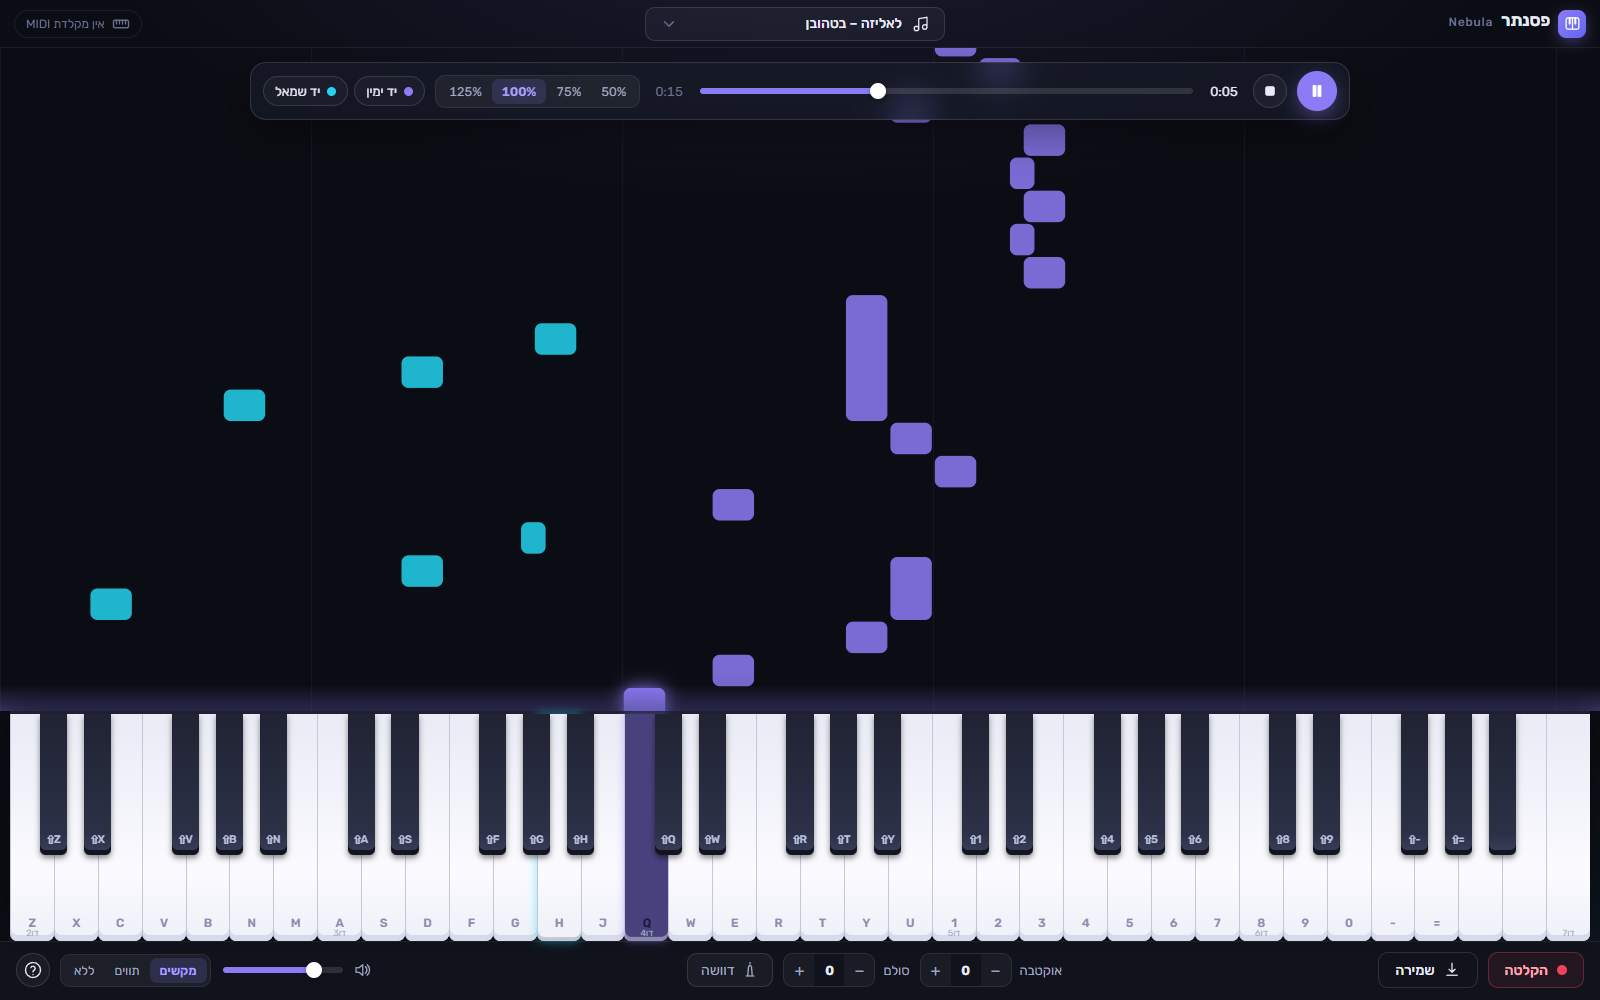
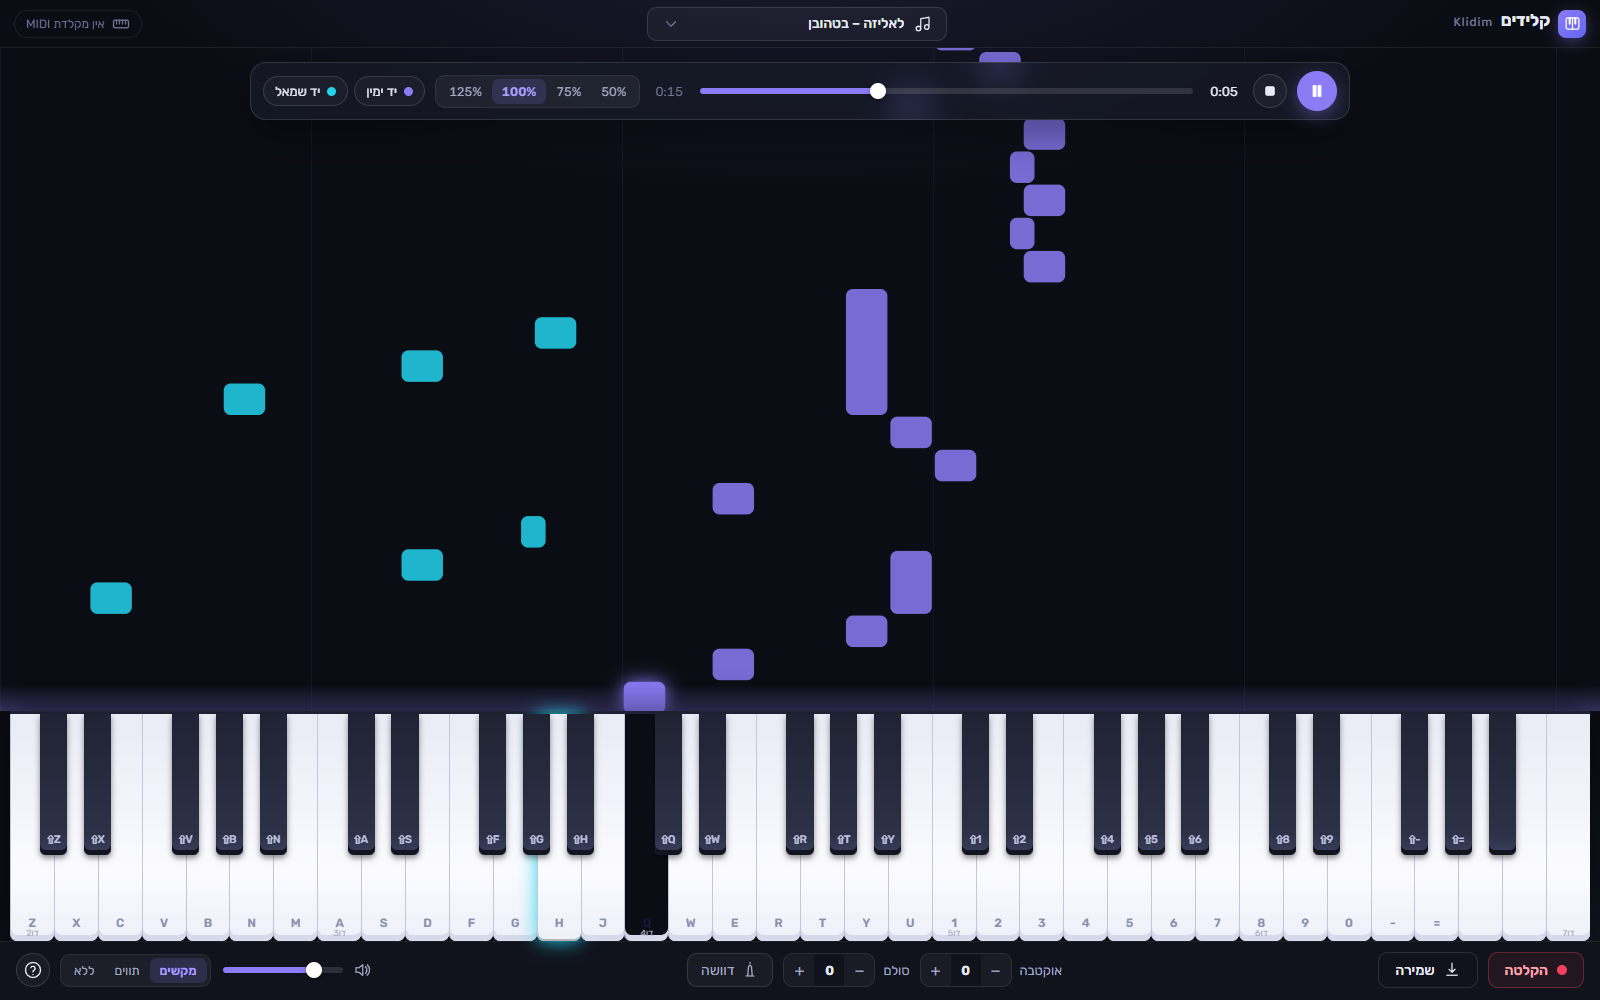
Rename the app to Klidim (קלידים)
New product name, installer names, window title, brand, repo URLs and
README screenshots.

diff --git a/src/renderer/src/App.tsx b/src/renderer/src/App.tsx
@@ -9,7 +9,7 @@ import { Icon } from './icons'
 type Labels = 'keys' | 'notes' | 'none'
 type Prefs = { volume: number; octave: number; labels: Labels }
 
-const PREFS_KEY = 'nebula-piano-prefs'
+const PREFS_KEY = 'klidim-prefs'
 function loadPrefs(): Prefs {
   const def: Prefs = { volume: 0.8, octave: 0, labels: 'keys' }
   try {
@@ -246,8 +246,8 @@ export function App(): React.JSX.Element {
           <span className="logo" aria-hidden>
             <Icon name="logo" />
           </span>
-          <span className="brand-name">פסנתר</span>
-          <span className="brand-sub">Nebula</span>
+          <span className="brand-name">קלידים</span>
+          <span className="brand-sub">Klidim</span>
         </div>
 
         <div className="song-picker">

diff --git a/src/renderer/index.html b/src/renderer/index.html
@@ -4,7 +4,7 @@
     <meta charset="UTF-8" />
     <meta name="viewport" content="width=device-width, initial-scale=1.0" />
     <meta http-equiv="Content-Security-Policy" content="default-src 'self'; script-src 'self'; style-src 'self' 'unsafe-inline'; font-src 'self' data:; img-src 'self' data: blob:; media-src 'self' blob: data:; connect-src 'self' ws: http://localhost:*; worker-src 'self' blob:" />
-    <title>Nebula Piano</title>
+    <title>קלידים</title>
   </head>
   <body>
     <div id="root"></div>

diff --git a/src/main/index.ts b/src/main/index.ts
@@ -19,7 +19,7 @@ function createWindow(): void {
     minHeight: 660,
     show: false,
     backgroundColor: BG,
-    title: 'Nebula Piano',
+    title: 'קלידים',
     titleBarStyle: 'hidden',
     titleBarOverlay: { color: BG, symbolColor: '#c9cdee', height: 48 },
     webPreferences: {

diff --git a/README.md b/README.md
@@ -1,10 +1,10 @@
 <div dir="rtl">
 
 <p align="center">
-  <img src="build/icon.png" width="110" alt="Nebula Piano" />
+  <img src="build/icon.png" width="110" alt="קלידים" />
 </p>
 
-<h1 align="center">Nebula Piano · פסנתר</h1>
+<h1 align="center">קלידים · Klidim</h1>
 
 <p align="center">
   <b>פסנתר למחשב, בעברית מלאה ובעיצוב מודרני.</b><br />
@@ -12,16 +12,16 @@
 </p>
 
 <p align="center">
-  <a href="https://github.com/dor2500/nebula-piano/releases/latest"><img src="https://img.shields.io/github/v/release/dor2500/nebula-piano?label=%D7%92%D7%A8%D7%A1%D7%94&color=8b7cf6" alt="גרסה" /></a>
+  <a href="https://github.com/dor2500/klidim/releases/latest"><img src="https://img.shields.io/github/v/release/dor2500/klidim?label=%D7%92%D7%A8%D7%A1%D7%94&color=8b7cf6" alt="גרסה" /></a>
   <img src="https://img.shields.io/badge/Windows-10%20%7C%2011-0b0d14?logo=windows" alt="Windows" />
   <img src="https://img.shields.io/badge/%D7%A9%D7%A4%D7%94-%D7%A2%D7%91%D7%A8%D7%99%D7%AA-22d3ee" alt="עברית" />
   <a href="LICENSE"><img src="https://img.shields.io/badge/license-MIT-6366f1" alt="MIT" /></a>
 </p>
 
 <p align="center">
-  <a href="https://github.com/dor2500/nebula-piano/releases/latest/download/NebulaPiano-Setup-0.1.0.exe"><b>⬇ הורדה להתקנה</b></a>
+  <a href="https://github.com/dor2500/klidim/releases/latest/download/Klidim-Setup-0.1.0.exe"><b>⬇ הורדה להתקנה</b></a>
   &nbsp;·&nbsp;
-  <a href="https://github.com/dor2500/nebula-piano/releases/latest/download/NebulaPiano-Portable-0.1.0.exe">גרסה ניידת (בלי התקנה)</a>
+  <a href="https://github.com/dor2500/klidim/releases/latest/download/Klidim-Portable-0.1.0.exe">גרסה ניידת (בלי התקנה)</a>
 </p>
 
 ![שיר מתנגן עם תווים נופלים](docs/screenshots/playing.png)
@@ -50,18 +50,18 @@
 
 ## התקנה
 
-1. מורידים את **[NebulaPiano-Setup-0.1.0.exe](https://github.com/dor2500/nebula-piano/releases/latest/download/NebulaPiano-Setup-0.1.0.exe)** מדף [הגרסאות](https://github.com/dor2500/nebula-piano/releases/latest).
+1. מורידים את **[Klidim-Setup-0.1.0.exe](https://github.com/dor2500/klidim/releases/latest/download/Klidim-Setup-0.1.0.exe)** מדף [הגרסאות](https://github.com/dor2500/klidim/releases/latest).
 2. מפעילים את הקובץ ובוחרים לאן להתקין.
-3. נוצר קיצור דרך בשולחן העבודה ובתפריט התחל בשם **Nebula Piano**.
+3. נוצר קיצור דרך בשולחן העבודה ובתפריט התחל בשם **קלידים**.
 
-**בלי התקנה:** אפשר להוריד את [הגרסה הניידת](https://github.com/dor2500/nebula-piano/releases/latest/download/NebulaPiano-Portable-0.1.0.exe) ולהפעיל אותה ישר, גם מדיסק און קי.
+**בלי התקנה:** אפשר להוריד את [הגרסה הניידת](https://github.com/dor2500/klidim/releases/latest/download/Klidim-Portable-0.1.0.exe) ולהפעיל אותה ישר, גם מדיסק און קי.
 
 > [!NOTE]
 > התוכנה לא חתומה דיגיטלית, ולכן ייתכן ש-Windows יציג את המסך "Windows protected your PC". לוחצים על **More info** ואז על **Run anyway**.
 
 **דרישות:** Windows 10 או 11, 64 ביט. לא צריך חיבור לאינטרנט – הצליל כלול בתוכנה.
 
-**הסרה:** הגדרות ← אפליקציות ← Nebula Piano ← הסרה.
+**הסרה:** הגדרות ← אפליקציות ← Klidim ← הסרה.
 
 ## איך מנגנים
 
@@ -110,8 +110,8 @@
 צריך [Node.js](https://nodejs.org) 20 ומעלה.
 
 ```bash
-git clone https://github.com/dor2500/nebula-piano.git
-cd nebula-piano
+git clone https://github.com/dor2500/klidim.git
+cd klidim
 npm install
 npm run dev      # הפעלה במצב פיתוח
 npm run dist     # בניית קובץ התקנה וגרסה ניידת לתיקייה dist
